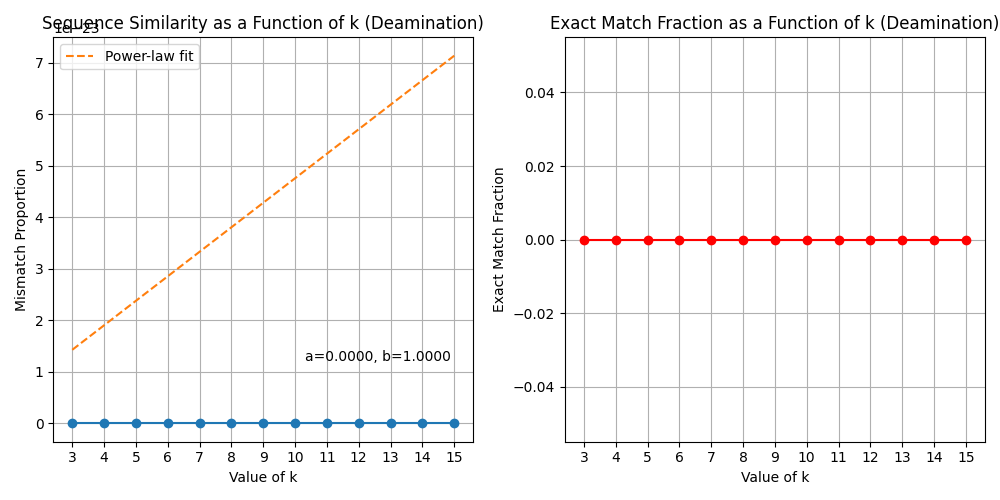
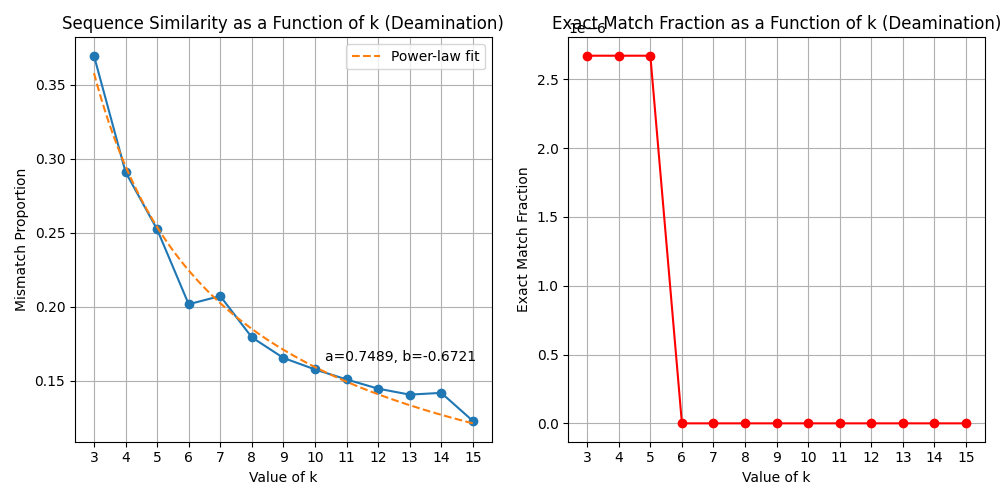
Update

diff --git a/simulations/spurious/main.py b/simulations/spurious/main.py
@@ -68,54 +68,85 @@ def process_kmer(args):
         return None, None
 
 def process_read(args):
-    read, k, rymer_set, sequence = args
+    read, k, w, minimizer_set, rymer_set, sequence = args
     mismatch_counts = []
     total_kmers = 0
     exact_matches = 0
 
-    kmer_args = [(read[i:i+k], i, rymer_set, sequence, k) for i in range(len(read) - k + 1)]
+    for i in range(len(read) - k + 1):
+        kmer = read[i:i+k]
+        rymer = rymer_transform(kmer)
+        rc_kmer = reverse_complement(kmer)
+        rc_rymer = rymer_transform(rc_rymer)
 
-    with ProcessPoolExecutor(max_workers=60) as executor:
-        results = executor.map(process_kmer, kmer_args)
+        rymer_found = rymer in rymer_set or rc_rymer in rymer_set
 
-    for res in results:
-        mismatch_count, exact_match = res
-        if mismatch_count is not None:
+        if rymer_found:
+            ref_segment = sequence[i:i+k]
+
+            mismatch_count = sum((a == 'T' and b == 'C') or (a == 'A' and b == 'G') for a, b in zip(kmer, ref_segment))
             mismatch_counts.append(mismatch_count)
             total_kmers += 1
-            exact_matches += exact_match
+
+            if kmer == ref_segment:
+                exact_matches += 1
 
     return mismatch_counts, exact_matches, total_kmers
 
-def find_deamination_mismatches(read: str, k: int, minimizer_table: Dict[str, List[int]], rymer_table: Dict[str, List[int]], sequence: str) -> List[int]:
+def find_deamination_mismatches(reads: List[str], k: int, w: int, minimizer_table: Dict[str, List[int]], rymer_table: Dict[str, List[int]], sequence: str) -> List[int]:
+    total_kmers = 0
+    exact_matches = 0
+    mismatch_counts = []
+
+    minimizer_set = set(minimizer_table.keys())
     rymer_set = set(rymer_table.keys())
-    args = (read, k, rymer_set, sequence)
-    mismatch_counts, exact_matches, total_kmers = process_read(args)
+
+    kmer_args = []
+
+    for read in reads:
+        for i in range(len(read) - k + 1):
+            kmer = read[i:i+k]
+            kmer_args.append((kmer, i, rymer_set, sequence, k))
+
+    # Subsample 0.1% of the kmers
+    subsample_size = max(1, int(0.01 * len(kmer_args)))
+    kmer_args_subsample = random.sample(kmer_args, subsample_size)
+
+    for args in kmer_args_subsample:
+        mc, em = process_kmer(args)
+        if mc is not None and em is not None:
+            mismatch_counts.append(mc)
+            total_kmers += 1
+            if em:
+                exact_matches += 1
+
     return mismatch_counts, exact_matches, total_kmers
+
+def process_k(k):
+    print("k= " +str(k))
+    w = k + 2
+    minimizer_table = create_index_table(sequence, k, w)
+    rymer_table = create_index_table(rymer_transform(sequence), k, w)
+    mismatch_counts, exact_matches, total_kmers = find_deamination_mismatches([bacterial_reference], k, w, minimizer_table, rymer_table, sequence)
+    non_zero_mismatches = [count for count in mismatch_counts if count > 0]
+    average_mismatch = sum(non_zero_mismatches) / len(non_zero_mismatches) if non_zero_mismatches else 0
+    average_mismatch /= k
+    exact_match_fraction = exact_matches / total_kmers if total_kmers else 0
+    return average_mismatch, exact_match_fraction
 
 # Main code for generating the plot
 sequence = read_fasta("rCRS.fa")
-bacterial_reference = read_fasta("refSoil.fa")
-#bacterial_reference = read_fasta("small.fa")
-print("read the references")
+bacterial_reference = read_fasta("refSoilSmall.fa")
+
 k_values = list(range(3, 16))
-average_mismatches = []
-exact_match_fractions = []
+results = []
 
-for k in k_values:
-    print("on k = " + str(k))
-    w = k + 2
-    minimizer_table = create_index_table(sequence, k, w)
-    print("minimizer index created")
-    rymer_table = create_index_table(rymer_transform(sequence), k, w)
-    print("rymer index created")
-    mismatch_counts, exact_matches, total_kmers = find_deamination_mismatches([bacterial_reference], k, minimizer_table, rymer_table, sequence)
-    print("deam mismatches found")
-    non_zero_mismatches = [count for count in mismatch_counts if count > 0]
-    average_mismatch = sum(non_zero_mismatches) / len(non_zero_mismatches) if non_zero_mismatches else 0
-    average_mismatches.append(average_mismatch / k)
-    exact_match_fractions.append(exact_matches / total_kmers if total_kmers else 0)
+with ProcessPoolExecutor(max_workers=1) as executor:
+    results = list(executor.map(process_k, k_values))
 
+average_mismatches, exact_match_fractions = zip(*results)
+
+# Plotting the results
 plt.figure(figsize=(10, 5))
 
 # First subplot
